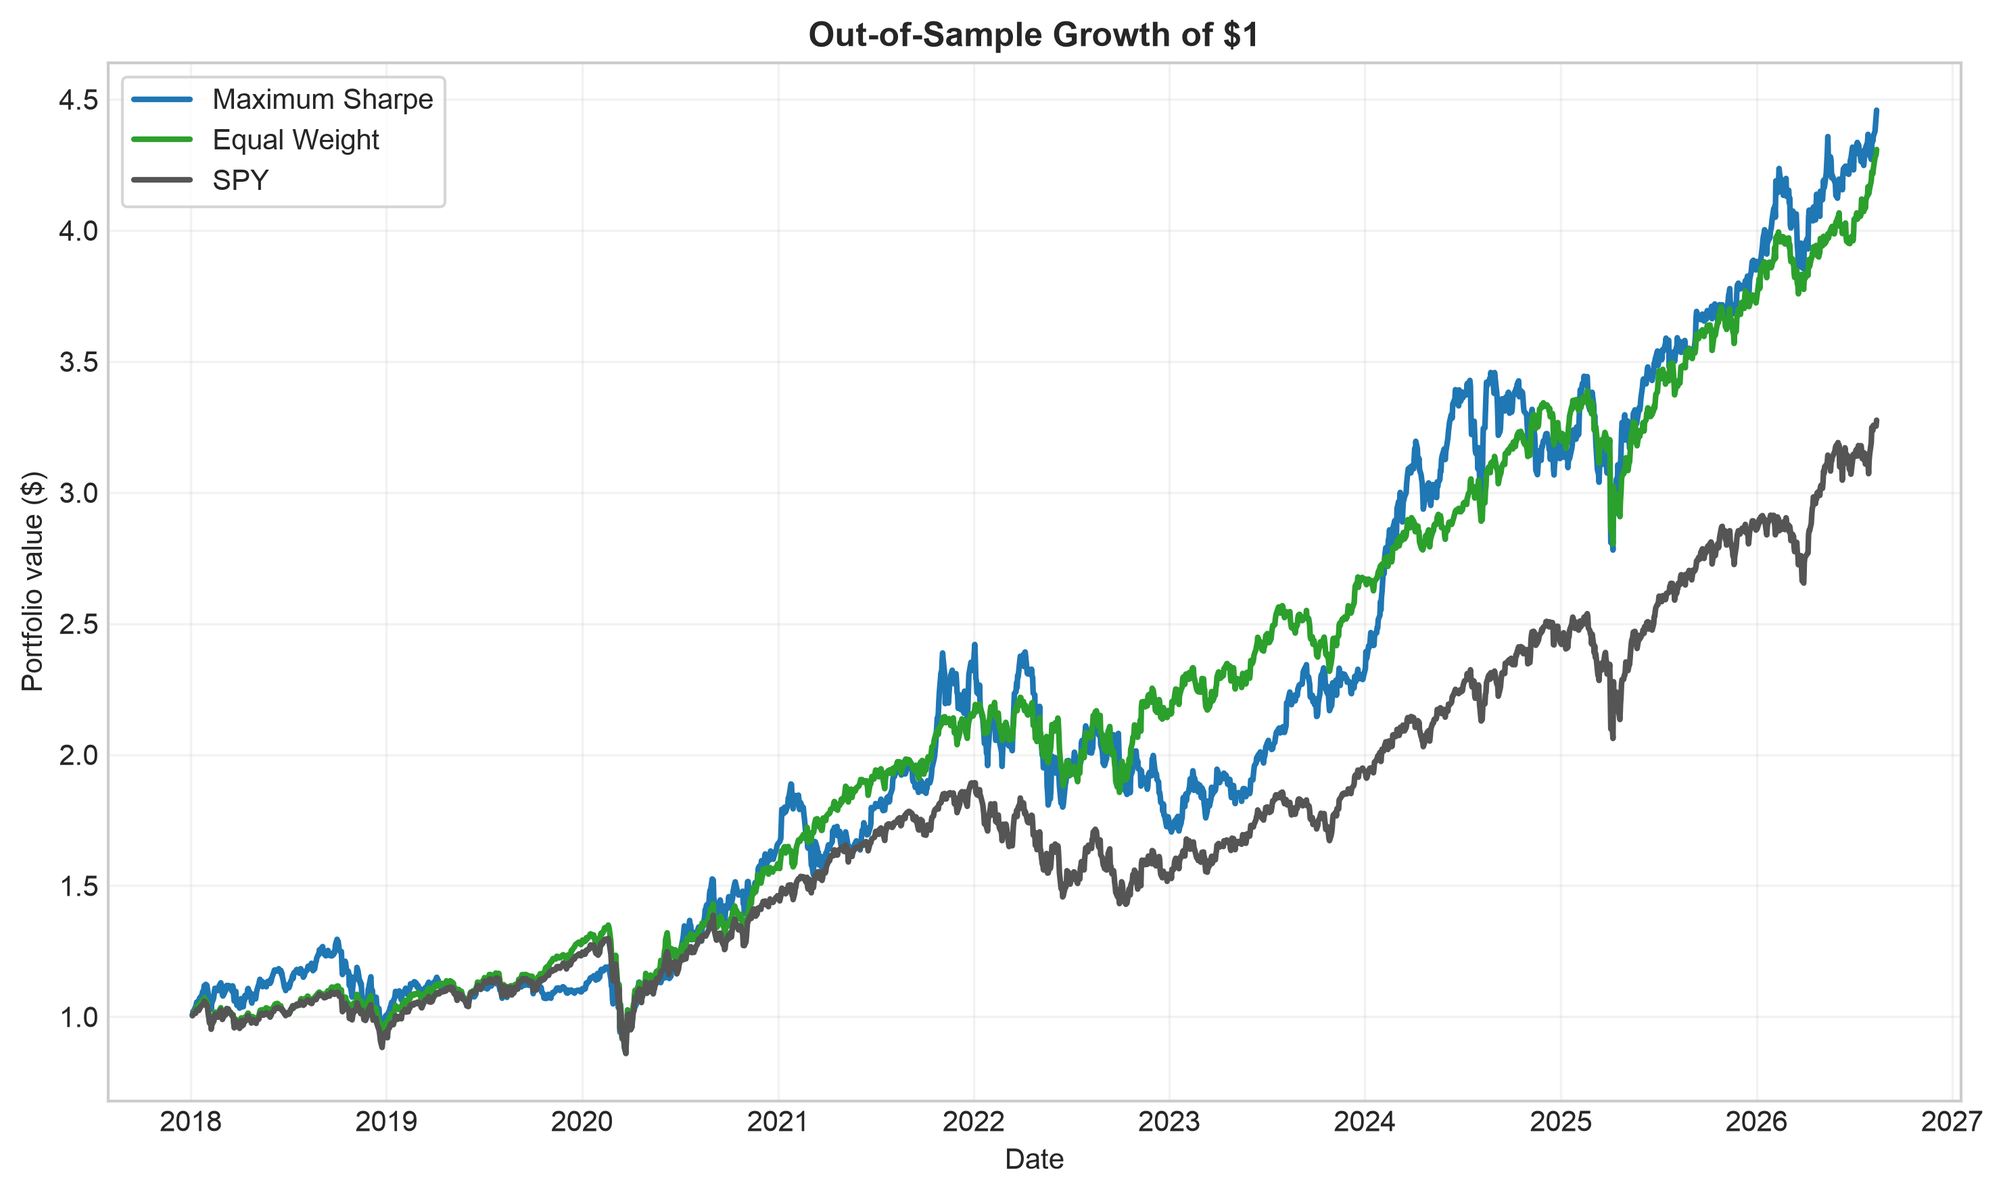
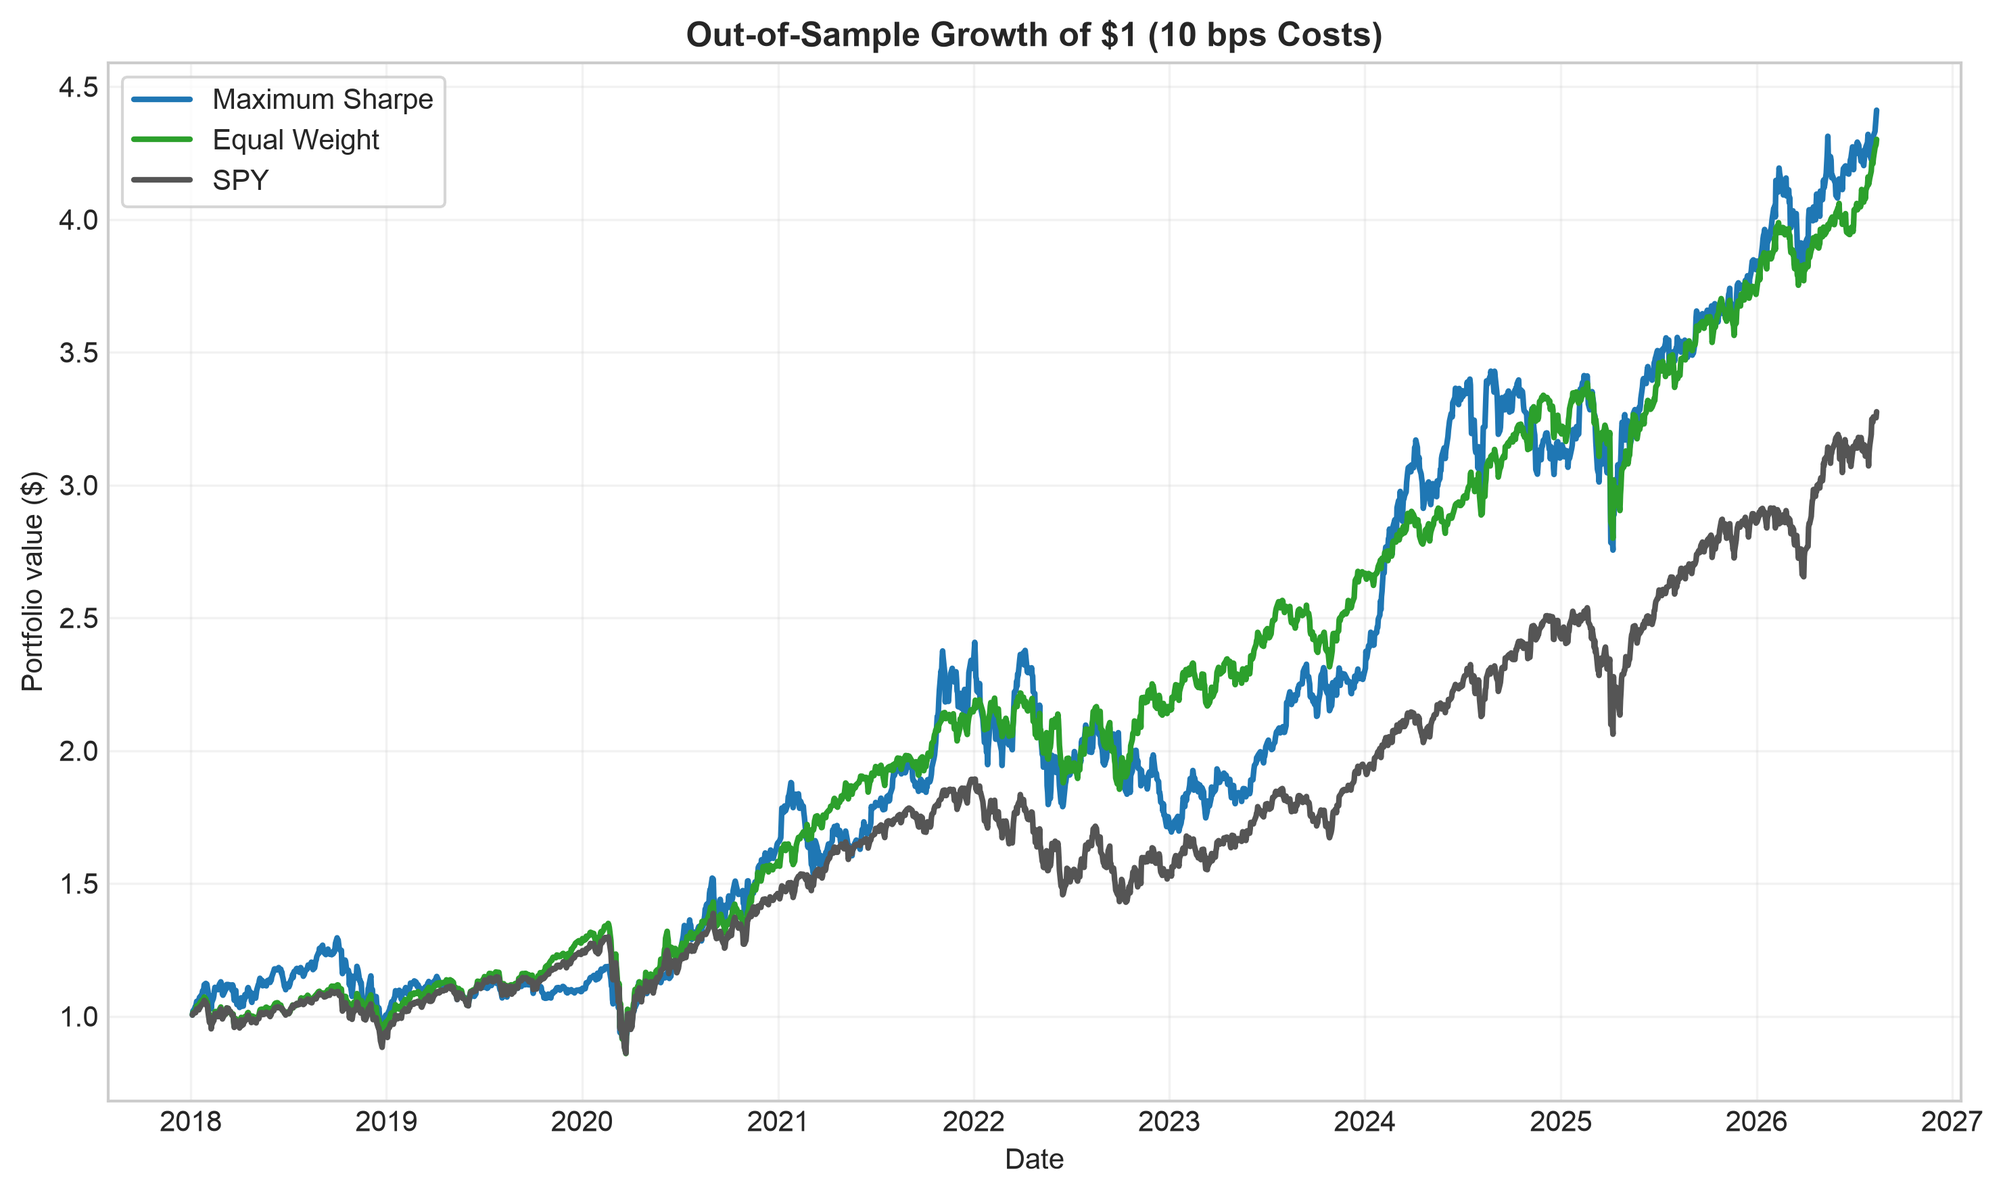
Add cost scenarios and out-of-sample findings

diff --git a/src/metrics.py b/src/metrics.py
@@ -3,14 +3,19 @@
 from __future__ import annotations
 
 import argparse
+from copy import deepcopy
 from pathlib import Path
 from typing import Any
 
 import numpy as np
 import pandas as pd
 
-from src.backtest import BacktestResult, load_backtest_data
-from src.data import load_config
+from src.backtest import (
+    BacktestResult,
+    load_backtest_data,
+    run_walk_forward_backtest,
+)
+from src.data import load_config, load_price_data
 
 
 def calculate_cagr(daily_returns: pd.Series, periods_per_year: int) -> float:
@@ -162,6 +167,61 @@ def save_performance_summary(
     return output_path
 
 
+def build_cost_scenario_results(
+    prices: pd.DataFrame,
+    config: dict[str, Any],
+    precomputed_backtests: dict[float, BacktestResult] | None = None,
+) -> tuple[dict[float, BacktestResult], pd.DataFrame]:
+    """Run configured trading-cost scenarios and combine their metrics."""
+
+    configured_scenarios = [
+        float(value) for value in config["backtest"]["cost_scenarios_bps"]
+    ]
+    default_cost = float(config["backtest"]["transaction_cost_bps"])
+    scenarios = list(dict.fromkeys(configured_scenarios))
+    if 0.0 not in scenarios or default_cost not in scenarios:
+        raise ValueError(
+            "Cost scenarios must include both 0 bps and the configured default."
+        )
+    if any(value < 0.0 for value in scenarios):
+        raise ValueError("Trading-cost scenarios cannot be negative.")
+
+    backtests = dict(precomputed_backtests or {})
+    summaries: dict[float, pd.DataFrame] = {}
+    for transaction_cost_bps in scenarios:
+        scenario_config = deepcopy(config)
+        scenario_config["backtest"][
+            "transaction_cost_bps"
+        ] = transaction_cost_bps
+        if transaction_cost_bps not in backtests:
+            backtests[transaction_cost_bps] = run_walk_forward_backtest(
+                prices,
+                scenario_config,
+            )
+        summaries[transaction_cost_bps] = build_performance_summary(
+            backtests[transaction_cost_bps],
+            scenario_config,
+        )
+
+    combined = pd.concat(
+        summaries,
+        names=["transaction_cost_bps", "strategy"],
+    )
+    if not np.isfinite(combined.to_numpy(dtype=float)).all():
+        raise ValueError("Cost-scenario summary contains non-finite values.")
+    return backtests, combined
+
+
+def load_cost_scenario_results(
+    config_path: str | Path = "config.yaml",
+) -> tuple[dict[float, BacktestResult], pd.DataFrame]:
+    """Load real prices and build all configured trading-cost comparisons."""
+
+    config = load_config(config_path)
+    prices, _ = load_price_data(config_path)
+    return build_cost_scenario_results(prices, config)
+
+
 def load_performance_results(
     config_path: str | Path = "config.yaml",
 ) -> tuple[BacktestResult, pd.DataFrame]:
@@ -187,7 +247,9 @@ def main() -> None:
     arguments = parser.parse_args()
 
     config = load_config(arguments.config)
-    backtest, summary = load_performance_results(arguments.config)
+    backtests, summary = load_cost_scenario_results(arguments.config)
+    default_cost = float(config["backtest"]["transaction_cost_bps"])
+    backtest = backtests[default_cost]
     output_path = save_performance_summary(
         summary,
         config,
@@ -203,7 +265,12 @@ def main() -> None:
     print(f"Out-of-sample rows: {diagnostics.out_of_sample_rows}")
     print(f"Rebalances: {diagnostics.rebalance_count}")
     print(f"No look-ahead bias: {diagnostics.no_lookahead_bias}")
-    print("Performance summary:")
+    shrinkage = backtest.rebalance_log["shrinkage_intensity"]
+    print(
+        "Ledoit-Wolf shrinkage range: "
+        f"{shrinkage.min():.6f} to {shrinkage.max():.6f}"
+    )
+    print("Performance summary by transaction-cost scenario:")
     print(summary.to_string(float_format=lambda value: f"{value:.6f}"))
     print(f"Saved table: {output_path}")
 

diff --git a/run_all.py b/run_all.py
@@ -10,7 +10,7 @@ from src.backtest import BacktestResult, load_backtest_data
 from src.covariance import CovarianceEstimates, load_covariance_data
 from src.data import DataValidationReport, load_config, load_price_data
 from src.frontier import FrontierResult, trace_efficient_frontier
-from src.metrics import build_performance_summary, save_performance_summary
+from src.metrics import build_cost_scenario_results, save_performance_summary
 from src.montecarlo import MonteCarloResult, run_monte_carlo
 from src.optimize import (
     OptimizationResult,
@@ -74,9 +74,27 @@ def run_pipeline(config_path: str | Path = "config.yaml") -> dict[str, Any]:
 
     print("[6/8] Running the strictly out-of-sample backtest...")
     backtest = load_backtest_data(config_path)
+    print("Ledoit-Wolf shrinkage intensity by rebalance:")
+    for row in backtest.rebalance_log.itertuples(index=False):
+        print(
+            f"  {row.holding_start.date().isoformat()}: "
+            f"{row.shrinkage_intensity:.6f}"
+        )
+    shrinkage = backtest.rebalance_log["shrinkage_intensity"]
+    print(
+        "Ledoit-Wolf shrinkage range: "
+        f"{shrinkage.min():.6f} to {shrinkage.max():.6f}"
+    )
 
     print("[7/8] Calculating and saving performance metrics...")
-    performance_summary = build_performance_summary(backtest, config)
+    default_cost = float(config["backtest"]["transaction_cost_bps"])
+    cost_scenario_backtests, performance_summary = (
+        build_cost_scenario_results(
+            prices,
+            config,
+            precomputed_backtests={default_cost: backtest},
+        )
+    )
     performance_table_path = save_performance_summary(
         performance_summary,
         config,
@@ -98,6 +116,7 @@ def run_pipeline(config_path: str | Path = "config.yaml") -> dict[str, Any]:
         "frontier": frontier,
         "monte_carlo": monte_carlo,
         "backtest": backtest,
+        "cost_scenario_backtests": cost_scenario_backtests,
         "performance_summary": performance_summary,
         "performance_table_path": performance_table_path,
         "figure_paths": figure_paths,
@@ -151,7 +170,12 @@ def _print_completion_summary(results: dict[str, Any]) -> None:
         f"{backtest.diagnostics.out_of_sample_end}, "
         f"no look-ahead bias = {backtest.diagnostics.no_lookahead_bias}"
     )
-    print("\nPerformance summary:")
+    shrinkage = backtest.rebalance_log["shrinkage_intensity"]
+    print(
+        "Walk-forward shrinkage range: "
+        f"{shrinkage.min():.6f} to {shrinkage.max():.6f}"
+    )
+    print("\nPerformance summary by transaction-cost scenario:")
     print(
         results["performance_summary"].to_string(
             float_format=lambda value: f"{value:.6f}"

diff --git a/tests/test_math.py b/tests/test_math.py
@@ -18,7 +18,7 @@ from src.covariance import (
 )
 from src.data import get_universe_tickers, load_config, load_price_data
 from src.frontier import FrontierResult, trace_efficient_frontier
-from src.metrics import build_performance_summary
+from src.metrics import build_cost_scenario_results, build_performance_summary
 from src.montecarlo import MonteCarloResult, run_monte_carlo
 from src.optimize import (
     load_optimization_inputs,
@@ -148,9 +148,11 @@ def test_random_portfolios_do_not_beat_analytical_frontier(
 
     diagnostics = monte_carlo_result.diagnostics
     comparison = monte_carlo_result.frontier_comparison
+    assert config["monte_carlo"]["dirichlet_alpha"] == pytest.approx(0.1)
     assert diagnostics.generated_portfolios == config["monte_carlo"][
         "number_of_portfolios"
     ]
+    assert diagnostics.maximum_weight > 0.5
     assert np.allclose(
         monte_carlo_result.weights.sum(axis=1).to_numpy(),
         1.0,
@@ -171,6 +173,7 @@ def test_backtest_uses_only_prior_training_data(
     assert backtest_result.diagnostics.no_lookahead_bias
     assert (log["training_end"] < log["holding_start"]).all()
     assert (log["training_rows"] == training_window).all()
+    assert log["shrinkage_intensity"].between(0.0, 1.0).all()
     assert (
         log["holding_start"].iloc[1:].reset_index(drop=True)
         > log["holding_end"].iloc[:-1].reset_index(drop=True)
@@ -217,3 +220,31 @@ def test_performance_summary_covers_strategy_and_benchmarks(
     assert np.isfinite(summary.to_numpy(dtype=float)).all()
     assert (summary["annualized_volatility"] > 0.0).all()
     assert (summary["maximum_drawdown"] <= 0.0).all()
+
+
+def test_performance_table_includes_zero_and_ten_bps_scenarios(
+    config: dict[str, Any],
+    backtest_result: BacktestResult,
+) -> None:
+    """The saved comparison must show gross and cost-adjusted performance."""
+
+    prices, _ = load_price_data(CONFIG_PATH)
+    default_cost = float(config["backtest"]["transaction_cost_bps"])
+    _, summary = build_cost_scenario_results(
+        prices,
+        config,
+        precomputed_backtests={default_cost: backtest_result},
+    )
+    assert set(summary.index.get_level_values("transaction_cost_bps")) == {
+        0.0,
+        10.0,
+    }
+    assert summary.loc[(10.0, "maximum_sharpe"), "cagr"] < summary.loc[
+        (0.0, "maximum_sharpe"), "cagr"
+    ]
+    assert summary.loc[(10.0, "equal_weight"), "cagr"] < summary.loc[
+        (0.0, "equal_weight"), "cagr"
+    ]
+    assert summary.loc[(10.0, "SPY"), "cagr"] == pytest.approx(
+        summary.loc[(0.0, "SPY"), "cagr"]
+    )

diff --git a/src/backtest.py b/src/backtest.py
@@ -242,6 +242,9 @@ def run_walk_forward_backtest(
                 "holding_end": holding_end_date,
                 "training_rows": len(training_returns),
                 "holding_rows": len(holding_returns),
+                "shrinkage_intensity": (
+                    covariance_estimates.shrinkage_intensity
+                ),
                 "solver_iterations": optimized.iterations,
             }
         )
@@ -344,6 +347,17 @@ def main() -> None:
         f"{diagnostics.maximum_training_rows}"
     )
     print(f"No look-ahead bias: {diagnostics.no_lookahead_bias}")
+    print("Ledoit-Wolf shrinkage intensity by rebalance:")
+    for row in result.rebalance_log.itertuples(index=False):
+        print(
+            f"  {row.holding_start.date().isoformat()}: "
+            f"{row.shrinkage_intensity:.6f}"
+        )
+    shrinkage = result.rebalance_log["shrinkage_intensity"]
+    print(
+        "Ledoit-Wolf shrinkage range: "
+        f"{shrinkage.min():.6f} to {shrinkage.max():.6f}"
+    )
     print("Final cumulative returns:")
     print(result.cumulative_returns.iloc[-1].to_string(float_format=lambda x: f"{x:.6f}"))
 

diff --git a/src/plots.py b/src/plots.py
@@ -173,8 +173,9 @@ def plot_cumulative_returns(
             linewidth=plot_config["line_width"],
         )
 
+    transaction_cost_bps = config["backtest"]["transaction_cost_bps"]
     axis.set_title(
-        "Out-of-Sample Growth of $1",
+        f"Out-of-Sample Growth of $1 ({transaction_cost_bps:g} bps Costs)",
         weight="bold",
     )
     axis.set_xlabel("Date")
@@ -223,7 +224,11 @@ def plot_drawdowns(
         )
 
     axis.axhline(0.0, color="#222222", linewidth=0.8)
-    axis.set_title("Out-of-Sample Drawdowns", weight="bold")
+    transaction_cost_bps = config["backtest"]["transaction_cost_bps"]
+    axis.set_title(
+        f"Out-of-Sample Drawdowns ({transaction_cost_bps:g} bps Costs)",
+        weight="bold",
+    )
     axis.set_xlabel("Date")
     axis.set_ylabel("Drawdown from prior peak")
     axis.yaxis.set_major_formatter(PercentFormatter(1.0))

diff --git a/README.md b/README.md
@@ -1,20 +1,25 @@
 # Portfolio Optimization and Backtesting
 
-This project uses real adjusted U.S. stock prices from Yahoo Finance to build and test long-only portfolios across 49 stocks and seven sectors. It estimates expected returns and covariance, solves minimum-variance and maximum-Sharpe portfolios, traces the efficient frontier, compares the analytical solution with 25,000 random portfolios, and evaluates the strategy in a strictly out-of-sample walk-forward backtest against equal-weight and SPY benchmarks.
+This project asks whether a long-only maximum-Sharpe optimizer can beat simple equal weighting out of sample. Using real adjusted U.S. stock prices across 49 stocks and seven sectors, the optimizer achieves a slightly higher historical CAGR but **underperforms the 1/N equal-weight benchmark on realized Sharpe ratio**, both before and after trading costs. That result is consistent with [DeMiguel, Garlappi, and Uppal (2009)](https://doi.org/10.1093/rfs/hhm075), who found that estimation error often offsets the theoretical gains from optimized diversification out of sample. This project is not a replication of their study; it demonstrates the same practical tension in a different universe and period.
 
 ![Efficient frontier with Monte Carlo portfolios](outputs/figures/efficient_frontier.png)
 
+*This frontier is an in-sample diagnostic built from full-sample historical estimates. It shows that the numerical optimizer finds the feasible mean-variance boundary; it is not evidence that those expected returns will be realized out of sample.*
+
 ## Results
 
-The backtest covers **January 4, 2018 through August 13, 2026**. Each allocation uses only the previous 756 trading days, then remains invested for the next 63 trading days before rebalancing. The maximum-Sharpe strategy produced the highest CAGR in this sample, while the equal-weight benchmark produced the highest realized Sharpe ratio.
+The backtest covers **January 4, 2018 through August 13, 2026**. Each allocation uses only the previous 756 trading days, then remains invested for the next 63 trading days before rebalancing. The full-sample optimizer reports an in-sample Sharpe ratio of **1.521**; the walk-forward strategy delivers only **0.737 gross** and **0.732 after 10-bps trading costs**. Equal weighting delivers **0.837 gross** and **0.836 after costs**.
 
-| Strategy | CAGR | Annualized volatility | Sharpe ratio | Maximum drawdown | Calmar ratio | Average turnover |
-|---|---:|---:|---:|---:|---:|---:|
-| Maximum Sharpe | 19.03% | 23.23% | 0.737 | -32.55% | 0.585 | 30.48% |
-| Equal Weight | 18.56% | 18.92% | 0.837 | -36.32% | 0.511 | 4.74% |
-| SPY | 14.83% | 19.12% | 0.663 | -33.72% | 0.440 | 0.00% |
+| Cost assumption | Strategy | CAGR | Annualized volatility | Sharpe ratio | Maximum drawdown | Calmar ratio | Average turnover |
+|---:|---|---:|---:|---:|---:|---:|---:|
+| 0 bps | Maximum Sharpe | 19.03% | 23.23% | 0.737 | -32.55% | 0.585 | 30.48% |
+| 0 bps | Equal Weight | 18.56% | 18.92% | 0.837 | -36.32% | 0.511 | 4.74% |
+| 0 bps | SPY | 14.83% | 19.12% | 0.663 | -33.72% | 0.440 | 0.00% |
+| 10 bps | Maximum Sharpe | 18.89% | 23.23% | 0.732 | -32.71% | 0.577 | 30.48% |
+| 10 bps | Equal Weight | 18.54% | 18.92% | 0.836 | -36.32% | 0.510 | 4.74% |
+| 10 bps | SPY | 14.83% | 19.12% | 0.663 | -33.72% | 0.440 | 0.00% |
 
-These are historical results, not expected future returns. The machine-readable table is available at [`outputs/tables/performance_summary.csv`](outputs/tables/performance_summary.csv).
+The optimized strategy's extra gross CAGR does not compensate for its higher volatility on a Sharpe-ratio basis. Costs also hurt it more because its average quarterly one-way turnover is over six times that of equal weight. These are historical results, not expected future returns. The machine-readable table is available at [`outputs/tables/performance_summary.csv`](outputs/tables/performance_summary.csv).
 
 ![Out-of-sample cumulative returns](outputs/figures/cumulative_returns.png)
 
@@ -41,11 +46,12 @@ The ticker universe and every model setting are stored in [`config.yaml`](config
 - Expected returns use annualized historical arithmetic means.
 - Both sample covariance and Ledoit-Wolf shrinkage covariance are estimated and validated.
 - Ledoit-Wolf covariance is used by the optimizer to reduce estimation noise.
+- Full-sample Ledoit-Wolf shrinkage intensity is 0.012286. Across the 35 walk-forward rebalances, shrinkage ranges from **0.014757 to 0.053275**; `run_all.py` prints every rebalance value.
 - SLSQP solves the global minimum-variance, maximum-Sharpe, and target-return problems.
 - Portfolios are long-only, fully invested, and bounded between 0% and 100% per asset.
 - The model uses a constant 3% annual risk-free rate and no sector cap.
 - The efficient frontier contains 50 target-return portfolios from the global minimum-variance return through the highest individual estimated asset return.
-- A reproducible Monte Carlo simulation generates 25,000 Dirichlet-weighted portfolios with random seed 42. None crosses the analytical frontier.
+- A reproducible Monte Carlo simulation generates 25,000 Dirichlet-weighted portfolios with concentration parameter `alpha = 0.1` and random seed 42. The smaller alpha deliberately samples more concentrated corner portfolios; none crosses the analytical frontier.
 
 ### Walk-forward backtest
 
@@ -58,7 +64,7 @@ This separation is what prevents look-ahead bias:
 3. The rebalance log checks this date ordering for all 35 periods.
 4. The automated test independently rebuilds the first allocation using only its recorded training dates and verifies that the weights match.
 
-The equal-weight benchmark follows the same quarterly holding schedule across the same 49 stocks. SPY is held over the identical out-of-sample dates. Transaction costs are configured at 0 basis points, and reported turnover is average one-way turnover per scheduled rebalance with the initial funding trade excluded.
+The equal-weight benchmark follows the same quarterly holding schedule across the same 49 stocks. SPY is held over the identical out-of-sample dates. The default backtest charges **10 basis points per unit of one-way turnover**, while the results table also reports a 0-bps gross scenario. Reported turnover is average one-way turnover per scheduled rebalance with the initial funding trade excluded.
 
 ## Repository structure
 
@@ -107,9 +113,13 @@ python -m pytest -q
 
 ## Limitations
 
-- Historical average returns are noisy and weak predictors of future returns, so optimized weights can change sharply when the sample changes.
-- The universe uses a fixed present-day list of large stocks over the historical period, which introduces survivorship and selection bias.
-- Transaction costs, taxes, bid-ask spreads, slippage, and market impact are set to zero in the reported results.
+### Survivorship bias
+
+The 49-stock universe is a fixed list of large companies selected using information available today and then carried backward through the historical sample. Companies that failed, were acquired, delisted, or simply stopped being prominent are absent. This survivorship and selection bias can make both the asset universe and its historical performance look stronger than a portfolio universe that could actually have been selected at each date.
+
+- Historical average returns are noisy and weak predictors of future returns, so optimized weights can change sharply when the sample changes. The gap between the 1.521 in-sample Sharpe estimate and 0.737 gross out-of-sample realization is one example of that estimation risk.
+- The model uses a constant 3% annual risk-free rate throughout the entire sample. Actual short-term rates changed substantially between 2015 and 2026, so the constant assumption affects both optimized weights and reported Sharpe ratios.
+- The 10-bps scenario is a simplified proportional cost assumption. It still excludes taxes, time-varying bid-ask spreads, slippage, liquidity constraints, and market impact.
 - No sector cap is imposed. The optimizer can produce concentrated sector or individual-stock exposures, as the sector chart demonstrates.
 - Results depend on the selected dates, assets, risk-free rate, rebalance schedule, and Yahoo Finance data quality or revisions.
 - Ledoit-Wolf shrinkage improves covariance stability but does not remove expected-return estimation error or guarantee strong out-of-sample performance.
